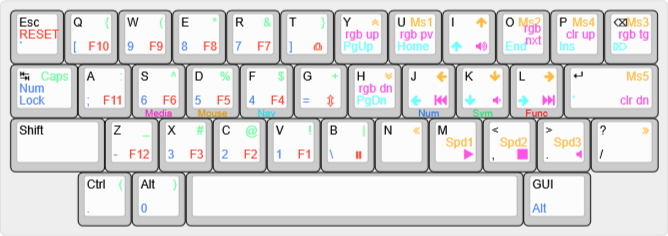
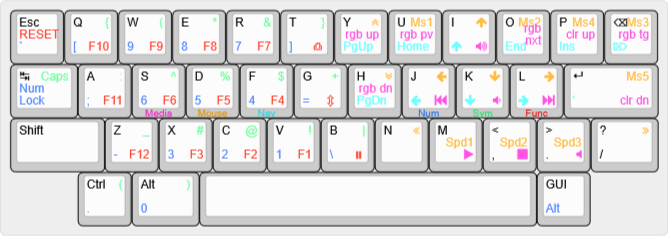
Update dsp40 firmware & layout

Changed region(s): [[0.7485, 0.7119, 0.8982, 0.9788], [0.2395, 0.7119, 0.3293, 0.9788]]

diff --git a/dsp40/ross/keymap.c b/dsp40/ross/keymap.c
@@ -24,15 +24,15 @@ const uint16_t PROGMEM keymaps[][MATRIX_ROWS][MATRIX_COLS] = {
 │ Tab   │  A  │  S  │  D  │  F  │  G  │  H  │  J  │  K  │  L  │ Enter   │
 ├───────┴─┬───┴─┬───┴─┬───┴─┬───┴─┬───┴─┬───┴─┬───┴─┬───┴─┬───┴─┬───────┤
 │ Shift   │  Z  │  X  │  C  │  V  │  B  │  N  │  M  │  ,  │  .  │  /    │
-└─────┬───┴─┬───┴─┬───┴─────┴─────┴─────┴─────┴─────┴────┬┴─────┼───────┘
-      │Ctrl │ Alt │                Space                 │ GUI  │
-      └─────┴─────┴──────────────────────────────────────┴──────┘
+└─────┬───┴─┬───┴──┬──┴─────┴─────┴─────┴─────┴─────┴─────┼─────┼───────┘
+      │Ctrl │ Alt  │                Space                 │ GUI │
+      └─────┴──────┴──────────────────────────────────────┴─────┘
 */
 [0] = LAYOUT(
     KC_ESC,  KC_Q,    KC_W,        KC_E,        KC_R,        KC_T, KC_Y, KC_U,        KC_I,        KC_O,        KC_P, KC_BSPC,
     KC_TAB,  KC_A,    LT(3, KC_S), LT(2, KC_D), LT(1, KC_F), KC_G, KC_H, LT(1, KC_J), LT(2, KC_K), LT(3, KC_L),       KC_ENT,
     KC_LSFT, KC_Z,    KC_X,        KC_C,        KC_V,        KC_B, KC_N, KC_M,        KC_COMM,     KC_DOT,            KC_SLSH,
-    _______, KC_LCTL, KC_LALT,             RCTL_T(KC_SPC),     RCTL_T(KC_SPC),        _______,     KC_RGUI,           _______
+    _______, KC_LCTL, KC_LALT, _______, RCTL_T(KC_SPC), RCTL_T(KC_SPC), _______,      _______,     KC_RGUI,           _______
 ),
 
 
@@ -43,15 +43,15 @@ const uint16_t PROGMEM keymaps[][MATRIX_ROWS][MATRIX_COLS] = {
 │NumLock│  ;  │  6  │  5  │  4  │  =  │PgDn │Left │Down │Right│    '    │
 ├───────┴─┬───┴─┬───┴─┬───┴─┬───┴─┬───┴─┬───┴─┬───┴─┬───┴─┬───┴─┬───────┤
 │ Shift   │  -  │  3  │  2  │  1  │  \  │█████│█████│█████│█████│███████│
-└─────┬───┴─┬───┴─┬───┴─────┴─────┴─────┴─────┴─────┴────┬┴─────┼───────┘
-      │  .  │  0  │                Space                 │ Alt  │
-      └─────┴─────┴──────────────────────────────────────┴──────┘
+└─────┬───┴─┬───┴──┬──┴─────┴─────┴─────┴─────┴─────┴─────┼─────┼───────┘
+      │  .  │  0   │                Space                 │ Alt │
+      └─────┴──────┴──────────────────────────────────────┴─────┘
 */
 [1] = LAYOUT(
-    KC_GRV,  KC_LBRC, KC_P9, KC_P8, KC_P7, KC_RBRC, KC_PGUP, KC_HOME, KC_UP,   KC_END,  KC_INS, KC_DEL,
-    KC_NUM,  KC_SCLN, KC_P6, KC_P5, KC_P4, KC_EQL,  KC_PGDN, KC_LEFT, KC_DOWN, KC_RGHT,         KC_QUOT,
-    KC_TRNS, KC_MINS, KC_P3, KC_P2, KC_P1, KC_BSLS, KC_NO,   KC_NO,   KC_NO,   KC_NO,           KC_NO,
-    _______, KC_PDOT, KC_P0,          KC_TRNS,     KC_TRNS,            _______,        KC_LALT, _______
+    KC_GRV,  KC_LBRC, KC_P9, KC_P8, KC_P7, KC_RBRC, KC_PGUP, KC_HOME, KC_UP,   KC_END,  KC_INS,  KC_DEL,
+    KC_NUM,  KC_SCLN, KC_P6, KC_P5, KC_P4, KC_EQL,  KC_PGDN, KC_LEFT, KC_DOWN, KC_RGHT,          KC_QUOT,
+    KC_TRNS, KC_MINS, KC_P3, KC_P2, KC_P1, KC_BSLS, KC_NO,   KC_NO,   KC_NO,   KC_NO,            KC_NO,
+    _______, KC_PDOT, KC_P0, _______,  KC_TRNS,     KC_TRNS,  _______,   _______,       KC_LALT, _______
 ),
 
 /* 2: Symbols/Mouse
@@ -61,15 +61,15 @@ const uint16_t PROGMEM keymaps[][MATRIX_ROWS][MATRIX_COLS] = {
 │ Caps  │  :  │  ^  │  %  │  $  │  +  │MsWhD│MsLft│MsDwn│MsRgh│ Ms 5    │
 ├───────┴─┬───┴─┬───┴─┬───┴─┬───┴─┬───┴─┬───┴─┬───┴─┬───┴─┬───┴─┬───────┤
 │█████████│  _  │  #  │  @  │  !  │  |  │MsWhL│MsAc0│MsAc1│MsAc2│MsWhR  │
-└─────┬───┴─┬───┴─┬───┴─────┴─────┴─────┴─────┴─────┴────┬┴─────┼───────┘
-      │  (  │  )  │                Space                 │██████│
-      └─────┴─────┴──────────────────────────────────────┴──────┘
+└─────┬───┴─┬───┴──┬──┴─────┴─────┴─────┴─────┴─────┴─────┼─────┼───────┘
+      │  (  │  )   │                Space                 │█████│
+      └─────┴──────┴──────────────────────────────────────┴─────┘
 */
 [2] = LAYOUT(
     KC_TILD, KC_LCBR, KC_LPRN, KC_ASTR, KC_AMPR, KC_RCBR, MS_WHLU, MS_BTN1, MS_UP,   MS_BTN2, MS_BTN4, MS_BTN3,
     KC_CAPS, KC_COLN, KC_CIRC, KC_PERC, KC_DLR,  KC_PLUS, MS_WHLD, MS_LEFT, MS_DOWN, MS_RGHT,          MS_BTN5,
     KC_NO,   KC_UNDS, KC_HASH, KC_AT,   KC_EXLM, KC_PIPE, MS_WHLL, MS_ACL0, MS_ACL1, MS_ACL2,          MS_WHLR,
-    _______, KC_LPRN, KC_RPRN,              KC_TRNS,     KC_TRNS,           _______, KC_NO,            _______
+    _______, KC_LPRN, KC_RPRN, _______,  KC_TRNS,     KC_TRNS,  _______,    _______,   KC_NO,            _______
 ),
 
 /* 3: Function/Media
@@ -79,14 +79,14 @@ const uint16_t PROGMEM keymaps[][MATRIX_ROWS][MATRIX_COLS] = {
 │███████│ F11 │ F6  │ F5  │ F4  │ScLck│RgbDn│Prev │VolDn│Next │ ClrDn   │
 ├───────┴─┬───┴─┬───┴─┬───┴─┬───┴─┬───┴─┬───┴─┬───┴─┬───┴─┬───┴─┬───────┤
 │█████████│ F12 │ F3  │ F2  │ F1  │Pause│█████│Play │Stop │Mute │███████│
-└─────┬───┴─┬───┴─┬───┴─────┴─────┴─────┴─────┴─────┴────┬┴─────┼───────┘
-      │█████│█████│                Space                 │██████│
-      └─────┴─────┴──────────────────────────────────────┴──────┘
+└─────┬───┴─┬───┴──┬──┴─────┴─────┴─────┴─────┴─────┴─────┼─────┼───────┘
+      │█████│██████│                Space                 │█████│
+      └─────┴──────┴──────────────────────────────────────┴─────┘
 */
 [3] = LAYOUT(
     RESET,   KC_F10, KC_F9, KC_F8, KC_F7, KC_PSCR, UG_VALU, UG_PREV, KC_VOLU, UG_NEXT, UG_HUEU, UG_TOGG,
-    KC_NO,   KC_F11, KC_F6, KC_F5, KC_F4, KC_SCRL, US_VALD, KC_MPRV, KC_VOLD, KC_MNXT,          UG_HUED,
+    KC_NO,   KC_F11, KC_F6, KC_F5, KC_F4, KC_SCRL, UG_VALD, KC_MPRV, KC_VOLD, KC_MNXT,          UG_HUED,
     KC_NO,   KC_F12, KC_F3, KC_F2, KC_F1, KC_PAUS, KC_NO,   KC_MPLY, KC_MSTP, KC_MUTE,          KC_NO,
-    _______, KC_NO,  KC_NO,          KC_TRNS,     KC_TRNS,            _______, KC_NO,            _______
+    _______, KC_NO,  KC_NO, _______,  KC_TRNS,   KC_TRNS,  _______,  _______, KC_NO,            _______
 )
 };